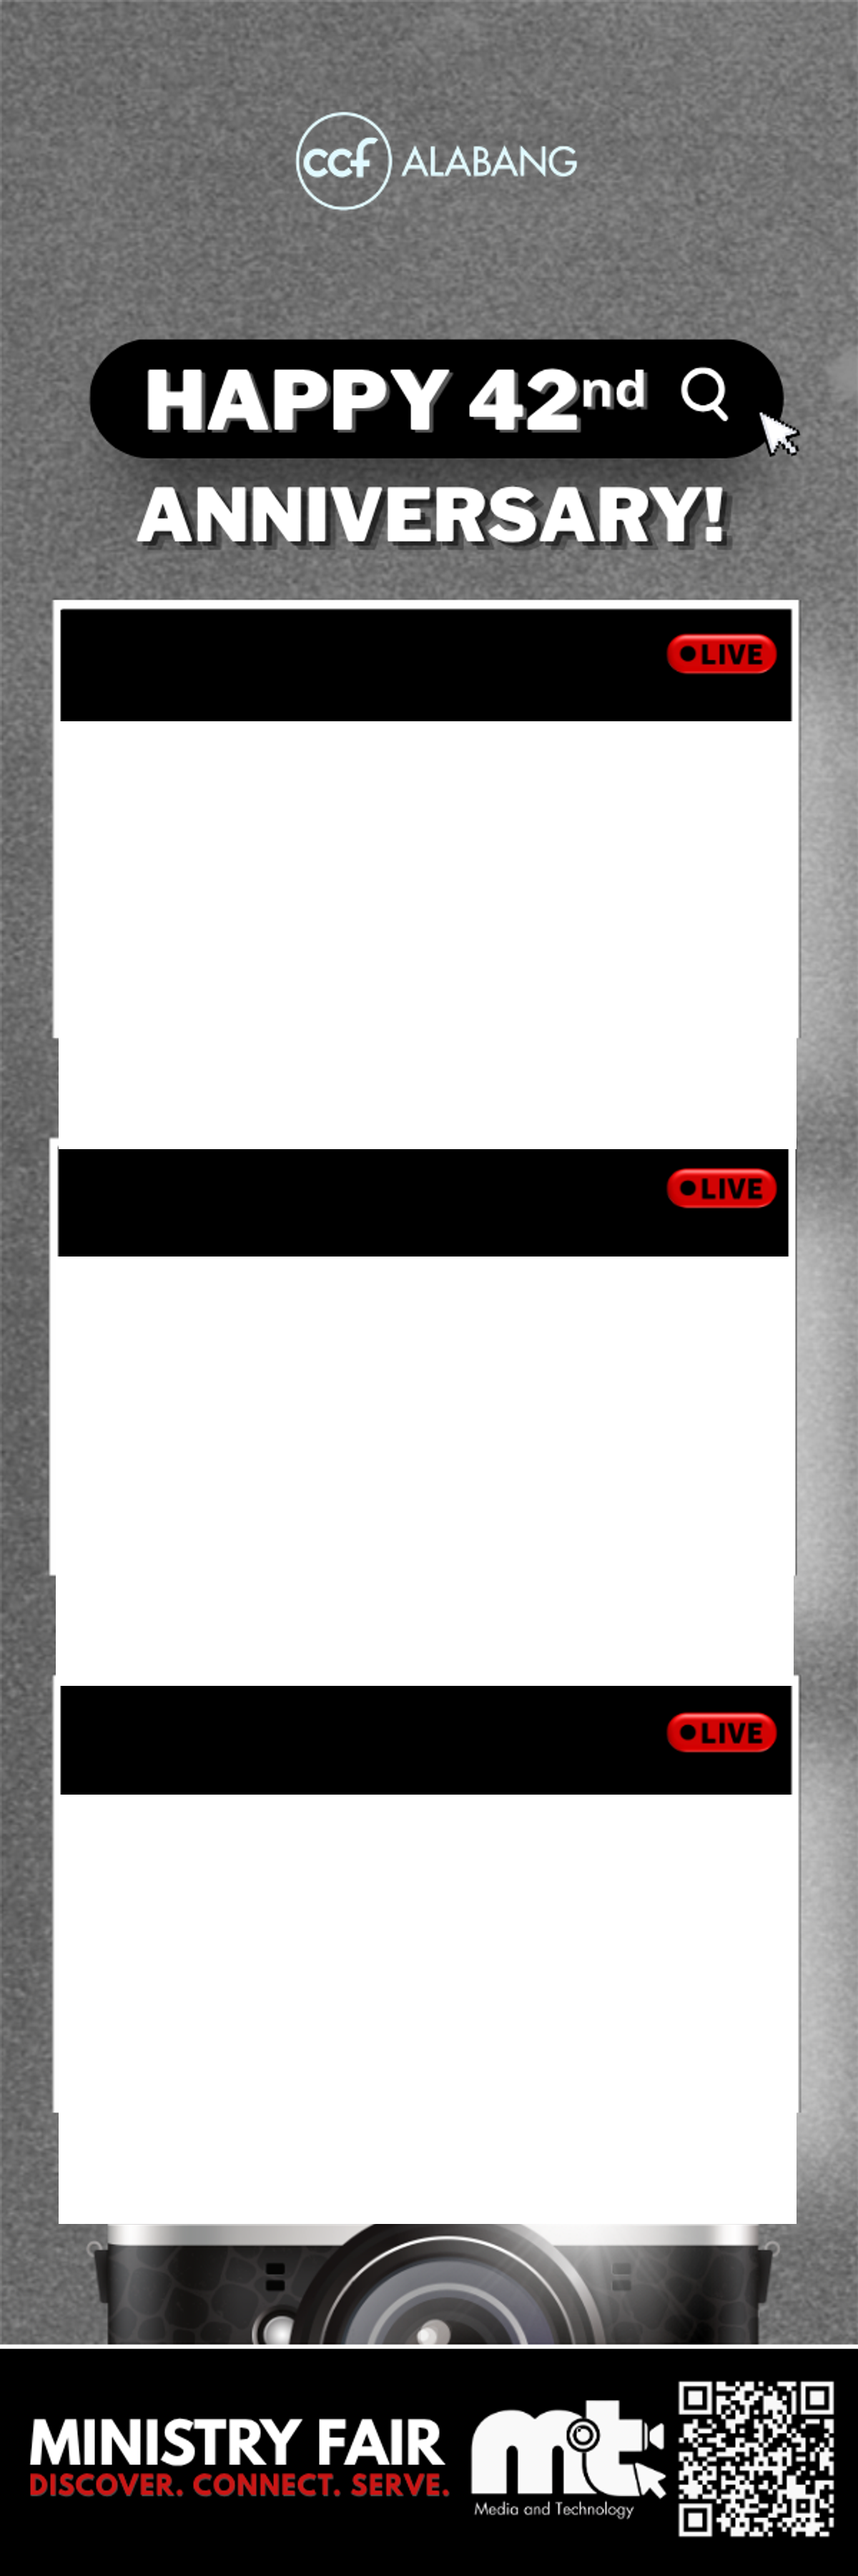
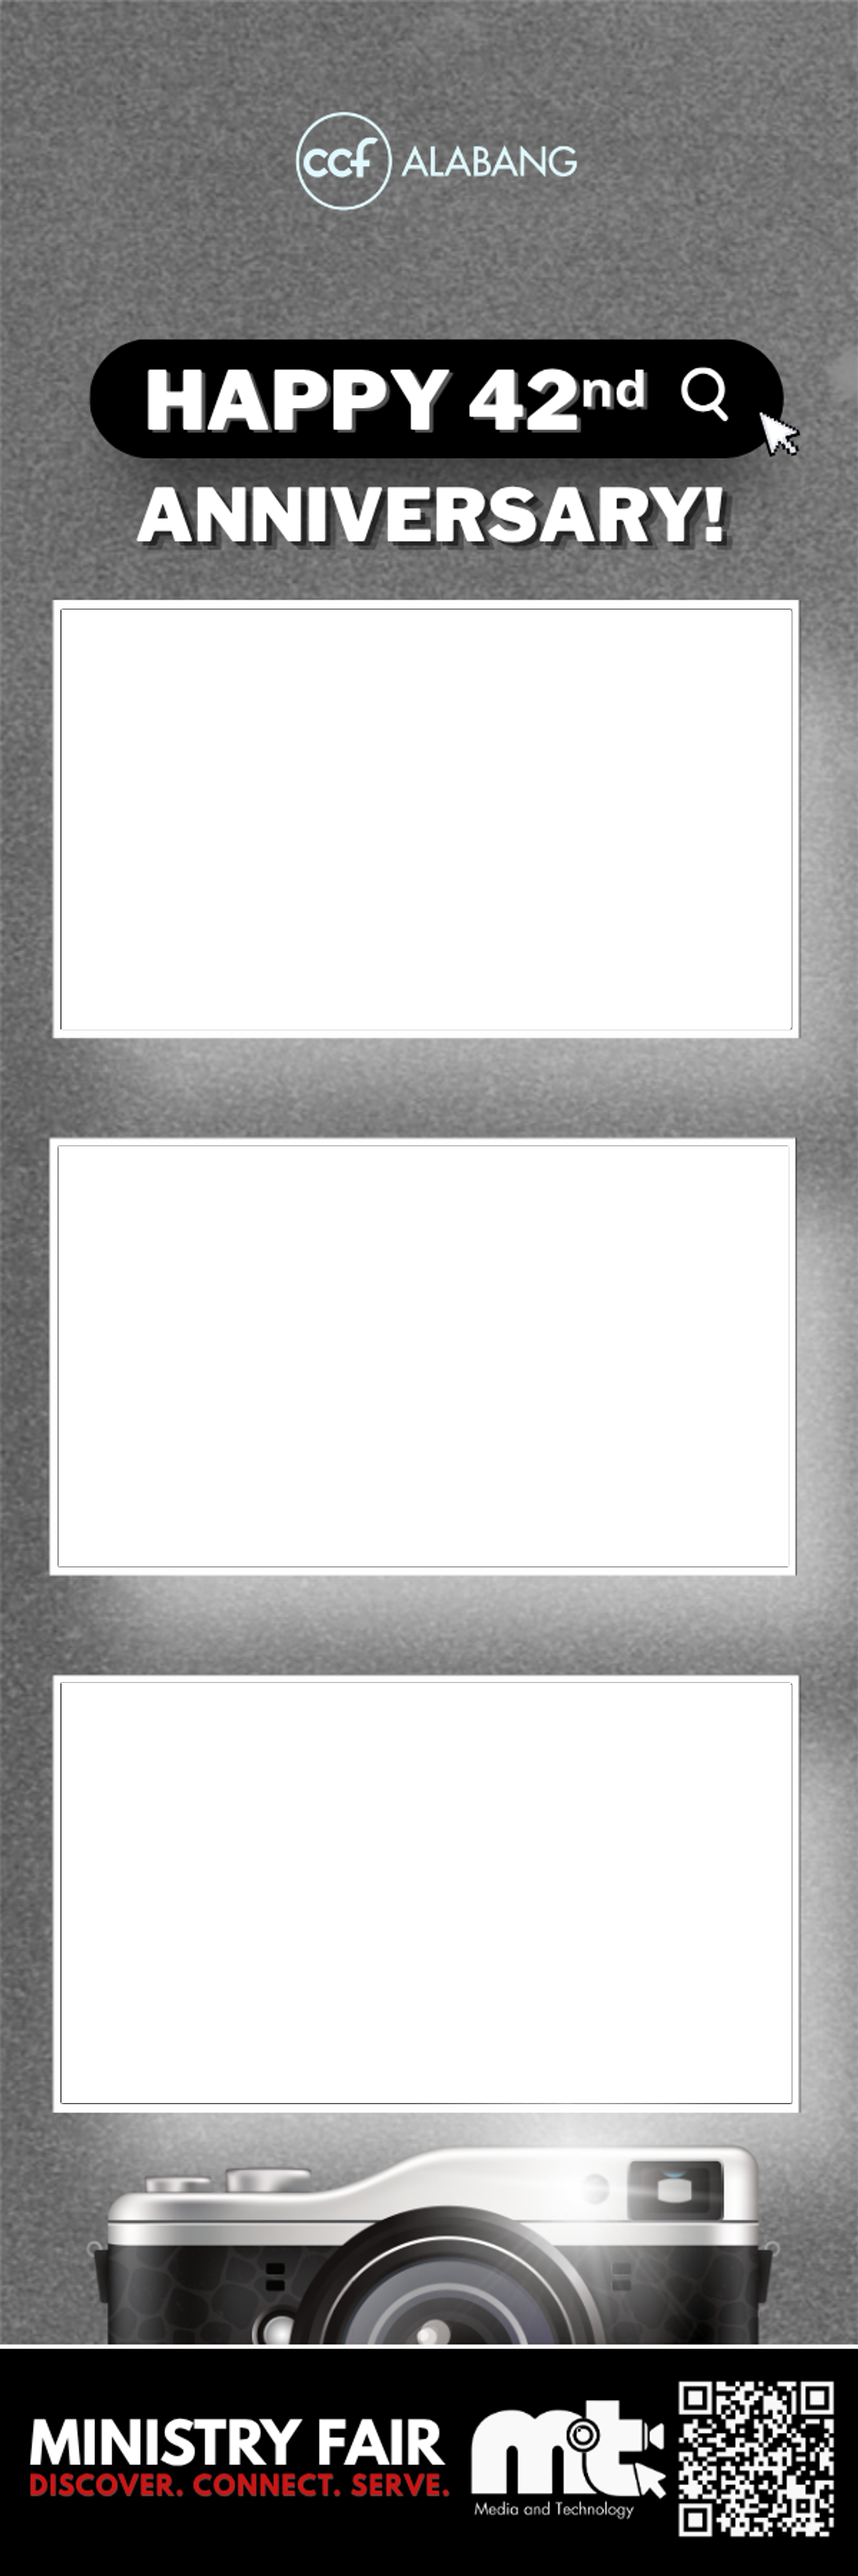
fix(kiosk): replace all default packaged frames with official transparent templates

diff --git a/apps/kiosk/src/main/frame/frame-service.ts b/apps/kiosk/src/main/frame/frame-service.ts
@@ -13,38 +13,39 @@ import type { PhotoVault } from '../storage/photo-vault.js';
 
 /** 1:3 Vertical photobooth strip aspect of the CCF Alabang Ministry Fair frame (1200 x 3600 pixels). */
 export const SUPPORTED_FRAME_ASPECT = 1 / 3;
-const LEGACY_MINISTRY_FAIR_FRAME_SHA256 =
+export const KNOWN_SHIPPED_LEGACY_HASHES = new Set([
[2 lines of base64/hex data omitted]
+]);
+export const LEGACY_MINISTRY_FAIR_FRAME_SHA256 =
[1 lines of base64/hex data omitted]
 
-/**
- * Normalized photo slots calibrated against the transparent camera LCD cutouts in the default 3-strip frame.
- */
 export const MAT_FRAME_SLOTS: FrameLayout = FrameLayoutSchema.parse([
   {
     slotIndex: 1,
     name: 'Photo 1',
-    x: 0.25,
-    y: 0.295556,
-    width: 0.538333,
-    height: 0.142778,
+    x: 0.071667,
+    y: 0.236667,
+    width: 0.85,
+    height: 0.162778,
     cropMode: 'crop-to-fill',
   },
   {
     slotIndex: 2,
     name: 'Photo 2',
-    x: 0.138333,
-    y: 0.491667,
-    width: 0.553333,
-    height: 0.147778,
+    x: 0.068333,
+    y: 0.445,
+    width: 0.85,
+    height: 0.162778,
     cropMode: 'crop-to-fill',
   },
   {
     slotIndex: 3,
     name: 'Photo 3',
-    x: 0.271667,
-    y: 0.742778,
-    width: 0.465,
-    height: 0.126667,
+    x: 0.071667,
+    y: 0.653333,
+    width: 0.85,
+    height: 0.162778,
     cropMode: 'crop-to-fill',
   },
 ]);
@@ -53,28 +54,28 @@ export const ANNIVERSARY_FRAME_SLOTS: FrameLayout = FrameLayoutSchema.parse([
   {
     slotIndex: 1,
     name: 'Photo 1',
-    x: 0.068333,
-    y: 0.28,
-    width: 0.86,
-    height: 0.166111,
+    x: 0.076667,
+    y: 0.222222,
+    width: 0.851667,
+    height: 0.162778,
     cropMode: 'crop-to-fill',
   },
   {
     slotIndex: 2,
     name: 'Photo 2',
-    x: 0.065,
-    y: 0.487778,
-    width: 0.86,
-    height: 0.166667,
+    x: 0.075,
+    y: 0.430556,
+    width: 0.85,
+    height: 0.162778,
     cropMode: 'crop-to-fill',
   },
   {
     slotIndex: 3,
     name: 'Photo 3',
-    x: 0.068333,
-    y: 0.696667,
-    width: 0.86,
-    height: 0.166667,
+    x: 0.076667,
+    y: 0.638889,
+    width: 0.851667,
+    height: 0.162778,
     cropMode: 'crop-to-fill',
   },
 ]);
@@ -489,7 +490,7 @@ function isReplaceable(frame: StoredFrame, library: StoredFrame[]): boolean {
   const legacyNamed =
     frame.name === 'CCF Alabang Ministry Fair Strip' ||
     frame.name === 'CCF Alabang Ministry Fair Strip (Collage 2)';
-  if (legacyNamed && frame.sha256 === LEGACY_MINISTRY_FAIR_FRAME_SHA256) return true;
+  if (legacyNamed && KNOWN_SHIPPED_LEGACY_HASHES.has(frame.sha256)) return true;
   const baseName = frame.name.replace(/ \(Collage 2\)$/, '');
   const original = library.find((candidate) => candidate.name === baseName);
   const isAutomaticDuplicate =

diff --git a/apps/kiosk/tests/main/frame-service.test.ts b/apps/kiosk/tests/main/frame-service.test.ts
@@ -137,12 +137,12 @@ describe('frame import contract', () => {
       const slot0 = DEFAULT_FRAME_SLOTS[0]!;
       const slot1 = DEFAULT_FRAME_SLOTS[1]!;
       const slot2 = DEFAULT_FRAME_SLOTS[2]!;
-      const updatedSlots = [{ ...slot0, x: 0.2 }, slot1, slot2];
+      const updatedSlots = [{ ...slot0, x: 0.1 }, slot1, slot2];
       service.updateLayout(frame2.id, 'Renamed B', updatedSlots, frame2.revision);
 
       const reloaded = store.repository.getFrame(frame2.id);
       expect(reloaded?.name).toBe('Renamed B');
-      expect(reloaded?.slots[0]?.x).toBe(0.2);
+      expect(reloaded?.slots[0]?.x).toBe(0.1);
     } finally {
       store.close();
     }
